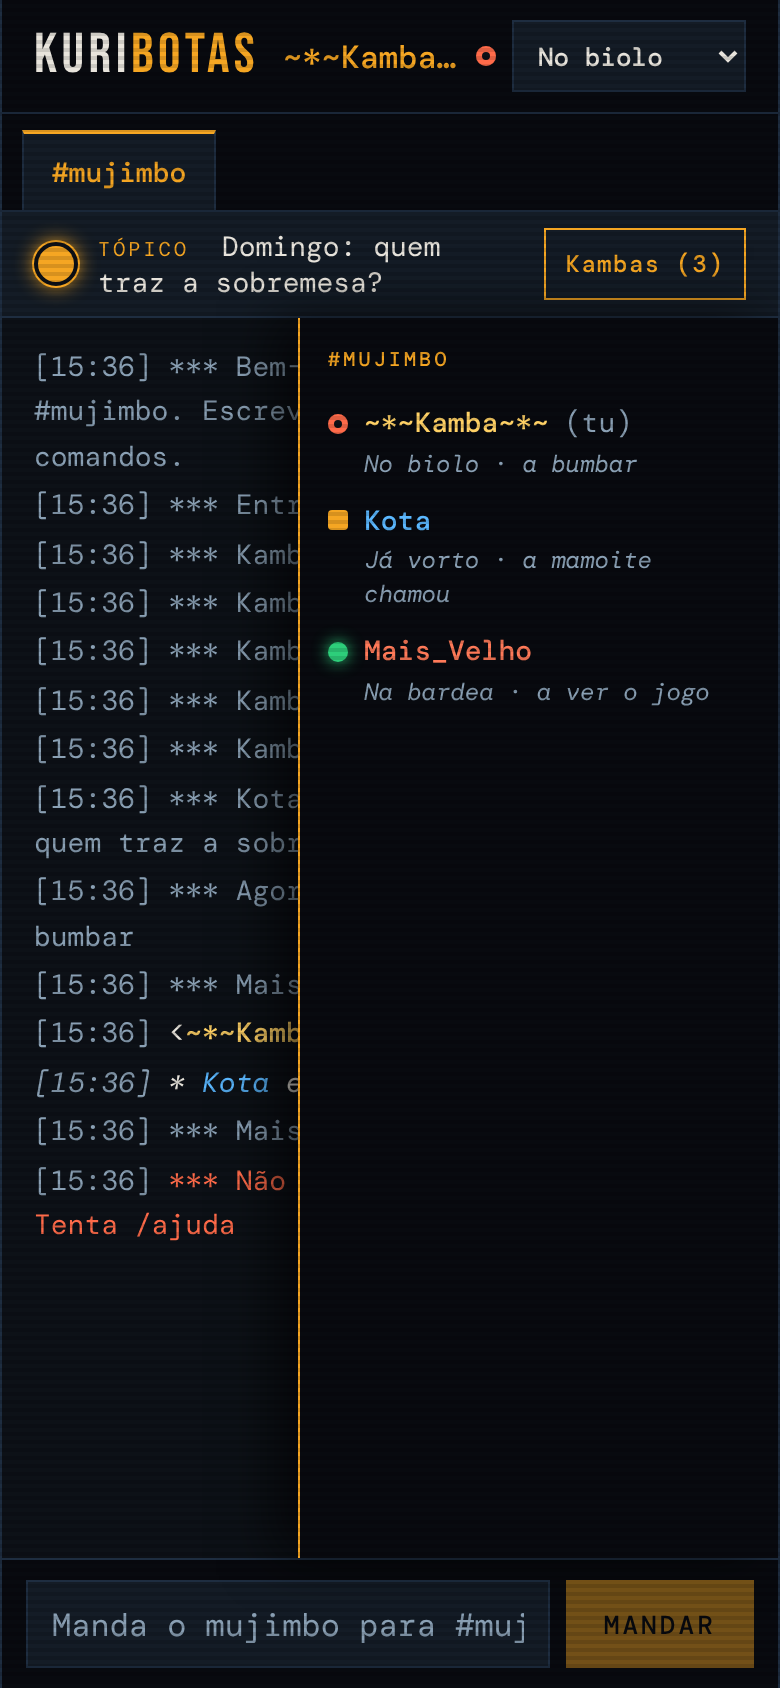
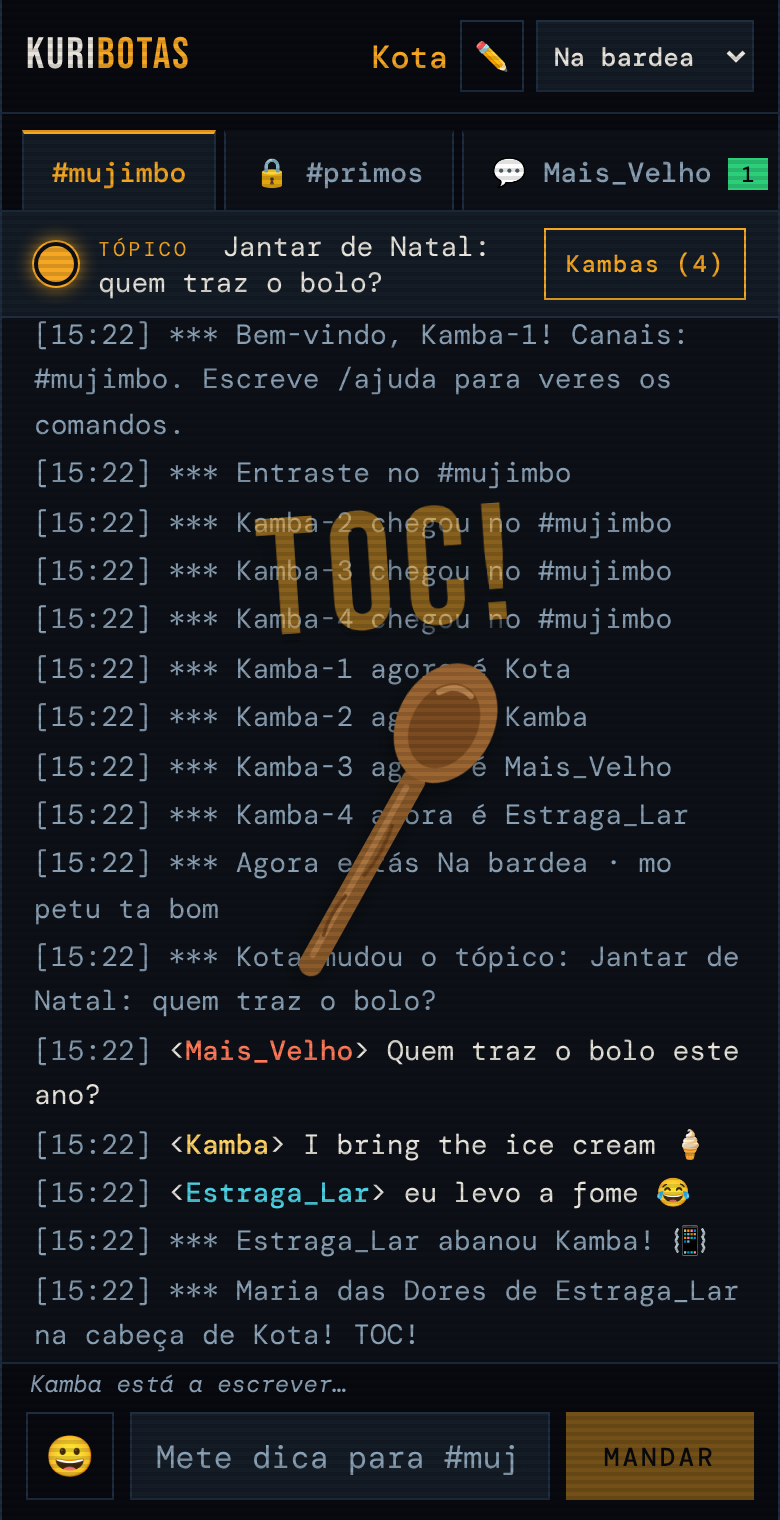
docs: phase 2 done; new screenshots; people list buttons on their own line (#24)

diff --git a/web/src/app.tsx b/web/src/app.tsx
@@ -565,20 +565,27 @@ function PersonRow({
     <li class="person">
       <span class="person-line">
         <span class={`dot st-${member.status}`} aria-hidden="true" />
-        <span class={`person-nick ${nickClass(member.nick)}`}>{member.nick}</span>
+        <span class={`person-nick ${nickClass(member.nick)}`} title={member.nick}>
+          {member.nick}
+        </span>
         {isMe && <span class="you"> {w.ui.you}</span>}
-        {!isMe && (
+      </span>
+      <span class="person-status">
+        {w.status[member.status]}
+        {member.note && ` · ${member.note}`}
+      </span>
+      {/* On their own line, so a long nick never pushes them out of the panel. */}
+      {!isMe && (
+        <span class="person-actions">
           <button
             type="button"
-            class="nudge dm"
+            class="nudge"
             aria-label={w.ui.dm(member.nick)}
             title={w.ui.dm(member.nick)}
             onClick={() => onDm(member.nick)}
           >
             💬
           </button>
-        )}
-        {!isMe && (
           <button
             type="button"
             class="nudge"
@@ -589,8 +596,6 @@ function PersonRow({
           >
             📳
           </button>
-        )}
-        {!isMe && (
           <button
             type="button"
             class="nudge"
@@ -601,12 +606,8 @@ function PersonRow({
           >
             🌪
           </button>
-        )}
-      </span>
-      <span class="person-status">
-        {w.status[member.status]}
-        {member.note && ` · ${member.note}`}
-      </span>
+        </span>
+      )}
     </li>
   );
 }

diff --git a/web/src/style.css b/web/src/style.css
@@ -335,18 +335,21 @@ body::after {
   display: flex;
   align-items: center;
   gap: 8px;
+  min-width: 0;
 }
 .person-nick {
   font-weight: 500;
+  min-width: 0;
+  overflow: hidden;
+  text-overflow: ellipsis;
+  white-space: nowrap;
 }
-.nudge.dm {
-  margin-left: auto;
-}
-.nudge.dm ~ .nudge {
-  margin-left: 4px;
+.person-actions {
+  display: flex;
+  gap: 4px;
+  margin: 4px 0 2px 18px;
 }
 .nudge {
-  margin-left: auto;
   min-width: 36px;
   min-height: 32px;
   border: 1px solid var(--border);

diff --git a/README.md b/README.md
@@ -6,7 +6,7 @@
 
 *Kuribota* is Angolan slang for the person who always knows everyone's business. Our main channel is `#mujimbo` — the rumour that travels from mouth to mouth.
 
-> Status: ✅ Phases 0–1 done (foundations, basic chat, web client) · 🚧 **Phase 2 — Messenger side** (statuses, "is typing…", the nudge and private chats done). Target: in use by the family for Christmas 2026.
+> Status: ✅ Phases 0–2 done (foundations, basic chat, web client, the Messenger side) · next: **Phase 3 — phone without effort** (PWA, push, reconnection). Target: in use by the family for Christmas 2026.
 
 ## What it is
 
@@ -19,11 +19,11 @@ New: it is a **PWA** — open an invite link, add it to the home screen, get pus
 ## Screenshots
 
 <p>
-  <img src="docs/screenshot-phone.png" alt="Kuribotas on a Portuguese phone: the people list open, each person with a status dot, the status name and a caption such as No biolo · a bumbar" width="280">
-  <img src="docs/screenshot-desktop.png" alt="The same chat on an English desktop: statuses shown as Busy, Be right back and Online, with the captions people chose" width="560">
+  <img src="docs/screenshot-phone.png" alt="Kuribotas on a Portuguese phone: a wooden spoon lands with a big TOC! over the chat, tabs for #mujimbo, the private channel #primos and a private chat with Mais_Velho, and Kamba está a escrever… above the message box" width="280">
+  <img src="docs/screenshot-desktop.png" alt="The same chat on an English desktop: the people list with statuses, captions and buttons for a private chat, a nudge and a tornado; the family emoji bar open; Estraga_Lar is typing…" width="560">
 </p>
 
-*Made-up nicks. Left: a Portuguese phone with the people list open. Right: the same chat on an English desktop. Each channel's colour is chosen per device (`/colour` or the dot in the topic bar).*
+*Made-up nicks and messages. Left: a Portuguese phone at the moment the Maria das Dores lands (`/mariadasdores Kota`), with a 🔒 private channel and a 💬 private chat open. Right: the same chat on an English desktop, with the people list (💬 📳 🌪 for each person) and the family emoji bar.*
 
 ## Status
 
@@ -31,9 +31,10 @@ New: it is a **PWA** — open an invite link, add it to the home screen, get pus
 |---|---|---|---|
 | 0 | Foundations: repo, TypeScript monorepo, CI → GHCR, Dependabot | 3–4 | ✅ |
 | 1 | Basic chat: WebSocket server, channels, SQLite history, slash commands, retro UI | 7–10 | ✅ |
-| 2 | Messenger side: statuses, private chats, nudge, typing indicator | 6–9 | 🚧 |
+| 2 | Messenger side: statuses, private chats, nudge and tornado, typing, family sounds, the arsenal (chinela, vassoura, Maria das Dores, batuque), emoji bar | 6–9 | ✅ (~7 h) |
 | 3 | Phone without effort: PWA, Web Push, reconnection, unread counts | 5–7 | ⏳ |
 | 4 | Invites and security: invite links, sessions, roles, rate limits | 3–5 | ⏳ |
+| 4b | Fun after accounts: stickers (family packs + our catchphrase pack), `/roll`, `/8ball`, December `/neve`; saved history for private chats | 2–4 | ⏳ |
 | 5 | Deploy: always-on server, Cloudflare Tunnel, backups, load test | 4–7 | ⏳ |
 | 6 | Write-up | 2–3 | ⏳ |
 
